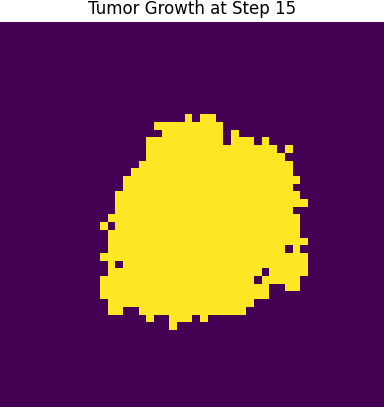
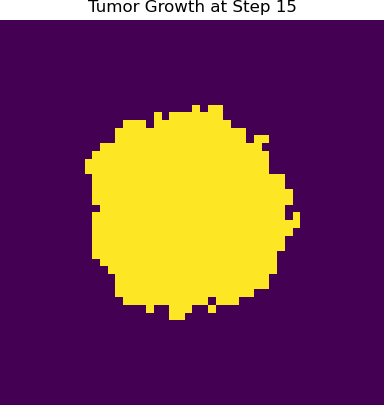
add oxygen diffusion

Changed region(s): [[0.2188, 0.237, 0.8125, 0.8296], [0.0, 0.0, 1.0, 0.0593]]

diff --git a/tumor_growth.py b/tumor_growth.py
@@ -1,34 +1,36 @@
 import numpy as np
 import matplotlib.pyplot as plt
-import matplotlib
+import matplotlib.patches as mpatches
 from PIL import Image
+from scipy.ndimage import laplace
 from argparse import ArgumentParser, RawTextHelpFormatter
 
 def parse_args():
-    "Parses inputs from commandline and returns them as a Namespace object."
-
-    parser = ArgumentParser(prog = 'python3 tumor_growth.py',
-        formatter_class = RawTextHelpFormatter, description =
-        '  Simulate tumor growth given arguments for growth probability, grid size and number of time steps.\n\n'
-        '  Example syntax:\n'
-        '    python3 tumor_growth.py -N 50 -T 100 -p 0.1\n')
-
-    # Optionals
-    parser.add_argument('-N', dest='GRID_SIZE', type=int, default=50,
-        help='grid size (default = 50)')
-
-    parser.add_argument('-T', dest='TIME_STEPS', type=int, default=100,
-        help='number of time steps (default = 100)')
-
-    parser.add_argument('-p', dest='GROWTH_PROBABILITY', type=float, default=0.3,
-        help='growth probability, probability that tumor cell divides, (default = 0.3) ')
-
-    parser.add_argument('-d', dest='DEATH_PROBABILITY', type=float, default=0.01,
-                        help='death probability, probability that tumor cell dies, (default = 0.01) ')
+    """Parses command-line arguments."""
+    parser = ArgumentParser(
+        prog='python3 tumor_growth.py',
+        formatter_class=RawTextHelpFormatter,
+        description=(
+            'Simulate tumor growth given arguments for growth probability, grid size, and number of time steps.\n\n'
+            'Example syntax:\n'
+            '  python3 tumor_growth.py -N 50 -T 100 -p 0.1\n'
+        )
+    )
+    parser.add_argument('-N', dest='GRID_SIZE', type=int, default=100, help='Grid size (default: 100)')
+    parser.add_argument('-T', dest='TIME_STEPS', type=int, default=100, help='Number of time steps (default: 100)')
+    parser.add_argument('-p', dest='GROWTH_PROBABILITY', type=float, default=0.6, help='Tumor cell division probability (default: 0.6)')
+    parser.add_argument('-od', dest='OXYGEN_DIFFUSION', type=float, default=0.3, help='Oxygen diffusion coefficient (default: 0.3)')
+    parser.add_argument('-cu', dest='CANCER_UPTAKE', type=float, default=0.1, help='Cancer cell oxygen uptake rate (default: 0.1)')
+    parser.add_argument('-nu', dest='NORMAL_UPTAKE', type=float, default=0.2, help='Normal cell oxygen uptake rate (default: 0.2)')
+    parser.add_argument('-o', dest='INITIAL_OXYGEN', type=float, default=0.8, help='Initial oxygen concentration (default: 0.8)')
+    parser.add_argument('-nt1', dest='NT1', type=float, default=0.05, help='Oxygen threshold for normal cells with normal neighbors (default: 0.05)')
+    parser.add_argument('-nt2', dest='NT2', type=float, default=0.1, help='Oxygen threshold for normal cells with cancer neighbors (default: 0.1)')
+    parser.add_argument('-ct1', dest='CT1', type=float, default=0.05, help='Oxygen threshold for cancer cells with cancer neighbors (default: 0.05)')
+    parser.add_argument('-ct2', dest='CT2', type=float, default=0.1, help='Oxygen threshold for cancer cells with normal neighbors (default: 0.1)')
+    parser.add_argument('-qt', dest='QUIESCENCE_TIME', type=int, default=10, help='Quiescence time for cancer cells (default: 10)')
+    parser.add_argument('--output-path', dest='OUTPUT_PATH', type=str, default='./', help='Path to save frames and GIF')
     return parser.parse_args()
 
-
-# Define neighborhood rule (Moore neighborhood)
 def get_neighbors(x, y, N):
     neighbors = []
     for i in [-1, 0, 1]:
@@ -39,59 +41,129 @@ def get_neighbors(x, y, N):
                     neighbors.append((nx, ny))
     return neighbors
 
-def save_frame(grid, step):
-    plt.figure(figsize=(5, 5))
-    plt.imshow(grid, cmap='viridis', interpolation='nearest', vmin=0, vmax=2)
+def count_neighbors(x, y, cell_grid, N):
+    """Counts the number of normal and cancer neighbors of a cell."""
+    neighbors = get_neighbors(x, y, N)
+    normal = sum(1 for nx, ny in neighbors if cell_grid[nx, ny] == 1)
+    cancer = sum(1 for nx, ny in neighbors if cell_grid[nx, ny] == 2)
+    return normal, cancer
+
+def update_oxygen(cell_grid, oxygen_grid, normal_uptake, cancer_uptake, diffusion):
+    """Updates the oxygen grid."""
+    uptake = np.zeros_like(oxygen_grid)
+    uptake[cell_grid == 1] = normal_uptake
+    uptake[cell_grid == 2] = cancer_uptake
+    return np.clip(oxygen_grid + diffusion * laplace(oxygen_grid) - uptake, 0, 1)
+
+def save_frame(cell_grid, oxygen_grid, step, output_path):
+    """Saves a frame of the simulation."""
+    plt.figure(figsize=(10, 5))
+    plt.subplot(1, 2, 1)
+    plt.imshow(cell_grid, cmap='viridis', interpolation='nearest')
+    plt.title(f"Cell States at Step {step}")
     plt.axis('off')
-    plt.title(f"Tumor Growth at Step {step}")
-    # Save the current frame to an image object
-    plt.savefig(f'C:/Users/gelie/Home/ComputationalScience/ComplexSystems/project/complex-systems/data/frame_{step}.png', bbox_inches='tight', pad_inches=0)
+    plt.legend(handles=[
+        mpatches.Patch(color='black', label='Quiescent Cancer Cell'),
+        mpatches.Patch(color='yellow', label='Cancer Cell'),
+        mpatches.Patch(color='green', label='Normal Cell'),
+        mpatches.Patch(color='purple', label='Empty')
+    ], loc='upper right', fontsize=8)
+
+    plt.subplot(1, 2, 2)
+    plt.imshow(oxygen_grid, cmap='coolwarm', interpolation='nearest')
+    plt.title(f"Oxygen Levels at Step {step}")
+    plt.axis('off')
+    cbar = plt.colorbar()
+    cbar.set_label('Oxygen Concentration', fontsize=8)
+    plt.savefig(f"{output_path}/frame_{step}.png", bbox_inches='tight', pad_inches=0)
     plt.close()
 
-def simulate_growth(N, T, p, d, save_plots = False):
-    # Initialize the grid
-    old_grid = np.zeros((N, N), dtype=int)
+def simulate_growth(args):
+    """Runs the tumor growth simulation."""
+    N = args.GRID_SIZE
+    T = args.TIME_STEPS
+
+    # Initialize grids
+    cell_grid = np.zeros((N, N), dtype=int)
+    oxygen_grid = np.full((N, N), args.INITIAL_OXYGEN)
+    quiescent_clock = np.zeros((N, N), dtype=int)
+
+    # Add initial cells and vessels
     center = N // 2
-    old_grid[center, center] = 1  # Single tumor cell in the center
-    # Tumor growth simulation
+    cell_grid[center, center] = 2  # Initial cancer cell
+    cell_grid[40,10] = 2  
+    cell_grid[41,11] = 1 
+    vessel_positions = [(10, 10), (25, 25), (40, 40)] # Random vessel placement (TO BE CHANGED)
+    for x, y in vessel_positions: 
+        oxygen_grid[x, y] = 1.0
+
     for step in range(T):
-        new_grid = old_grid.copy()
+        new_grid = cell_grid.copy()
         for x in range(N):
             for y in range(N):
-                if old_grid[x, y] == 1:  # If I am a tumor cell
-                    neighbors = get_neighbors(x, y, N)
-                    for nx, ny in neighbors:
-                        # If neighbors are healthy
-                        if old_grid[nx, ny] == 0 and np.random.rand() < p:
-                            new_grid[nx, ny] = 1 #Infect each neighbor with growth probability
-                if old_grid[x, y] == 1 and np.random.rand() < d:
-                    # this tumor cell dies with d probability
-                    new_grid[x, y] = 2
-        old_grid = new_grid
-        #print(f"Number of tumor cells (NEW GRID): {np.sum(new_grid == 1)}, healthy cells: {np.sum(new_grid == 0)}, "
-        #      f"dead cells: {np.sum(new_grid == 2)}, total cells: {N * N}")
-        if (step % 5 == 0) and save_plots:  # Save every 5th step
-            save_frame(old_grid, step)
-    return old_grid
+                if cell_grid[x, y] == 1: # Normal cell
+                    normal_cell_neighbors, cancer_cell_neighbors = count_neighbors(x,y,cell_grid,N)
+                    if normal_cell_neighbors > cancer_cell_neighbors:
+                        local_oxygen_threshold = args.NT1
+                    else: 
+                        local_oxygen_threshold = args.NT2
 
-def save_gif(T):
-    # Create GIF from saved frames
-    images = [Image.open(
-        f'C:/Users/gelie/Home/ComputationalScience/ComplexSystems/project/complex-systems/data/frame_{step}.png') for
-              step in range(0, T, 5)]
-    gif_path = 'C:/Users/gelie/Home/ComputationalScience/ComplexSystems/project/complex-systems/data/tumor_growth_simulation.gif'
+                    if oxygen_grid[x, y] < local_oxygen_threshold:  # Normal cell dies if oxygen is under local threshold
+                        new_grid[x, y] = 0
+                    else:  # Attempts to divide
+                        neighbors = get_neighbors(x, y, N)
+                        empty_neighbors = [(nx, ny) for nx, ny in neighbors if cell_grid[nx, ny] == 0]
+                        if empty_neighbors and np.random.rand() < args.GROWTH_PROBABILITY:
+                            nx, ny = empty_neighbors[np.random.choice(len(empty_neighbors))]
+                            new_grid[nx, ny] = 1 
+
+                elif cell_grid[x, y] == 2:  # Cancer cell
+                    normal_cell_neighbors, cancer_cell_neighbors = count_neighbors(x,y,cell_grid,N)
+                    if cancer_cell_neighbors > normal_cell_neighbors: 
+                        local_oxygen_threshold = args.CT1
+                    else: 
+                        local_oxygen_threshold = args.CT2
+
+                    if oxygen_grid[x, y] < local_oxygen_threshold:  # Cancer cell becomes quiescent if oxgen is under set threshold
+                        new_grid[x, y] = 3 
+                    else:  # Attempts to divide
+                        neighbors = get_neighbors(x, y, N)
+                        empty_neighbors = [(nx, ny) for nx, ny in neighbors if cell_grid[nx, ny] == 0]
+                        if empty_neighbors and np.random.rand() < args.GROWTH_PROBABILITY:
+                            nx, ny = empty_neighbors[np.random.choice(len(empty_neighbors))]
+                            new_grid[nx, ny] = 2
+
+                elif cell_grid[x, y] == 3:  # Quiescent cancer cell
+                    normal_cell_neighbors, cancer_cell_neighbors = count_neighbors(x,y,cell_grid,N)
+                    if cancer_cell_neighbors > normal_cell_neighbors: 
+                        local_oxygen_threshold = args.CT1
+                    else: 
+                        local_oxygen_threshold = args.CT2
+                    
+                    if oxygen_grid[x, y] > local_oxygen_threshold:  # Revives if oxygen increases above threshold
+                        new_grid[x, y] = 2
+                        quiescent_clock[x, y] = 0
+                    else: 
+                        quiescent_clock[x, y] += 1
+                        if quiescent_clock[x, y] > args.QUIESCENCE_TIME:  # Cancer cell dies after too much time without enough oxygen 
+                            new_grid[x, y] = 0
+        cell_grid = new_grid
+        oxygen_grid = update_oxygen(cell_grid, oxygen_grid, args.NORMAL_UPTAKE, args.CANCER_UPTAKE, args.OXYGEN_DIFFUSION)
+        
+        if step % 5 == 0:  # Save every 5th step
+            save_frame(cell_grid, oxygen_grid, step, args.OUTPUT_PATH)
+
+    return cell_grid
+
+def save_gif(output_path, time_steps):
+    """Creates a GIF from the saved frames."""
+    images = [Image.open(f'{output_path}/frame_{step}.png') for step in range(0, time_steps, 5)]
+    gif_path = f'{output_path}/tumor_growth_simulation.gif'
     images[0].save(gif_path, save_all=True, append_images=images[1:], duration=300, loop=0)
 
-    # Display the path to download the GIF
     print(f"GIF saved as: {gif_path}")
 
 if __name__ == '__main__':
     args = parse_args()
-    # Parameters
-    N = args.GRID_SIZE  # Size of the grid (default 50x50)
-    T = args.TIME_STEPS  # Number of simulation steps
-    p = args.GROWTH_PROBABILITY  # Probability of tumor cell division
-    d = args.DEATH_PROBABILITY # Probability that a tumor cell dies
-
-    grid = simulate_growth(N, T, p, d, save_plots = True)
-    save_gif(T)
+    simulate_growth(args)
+    save_gif(args.OUTPUT_PATH, args.TIME_STEPS)
